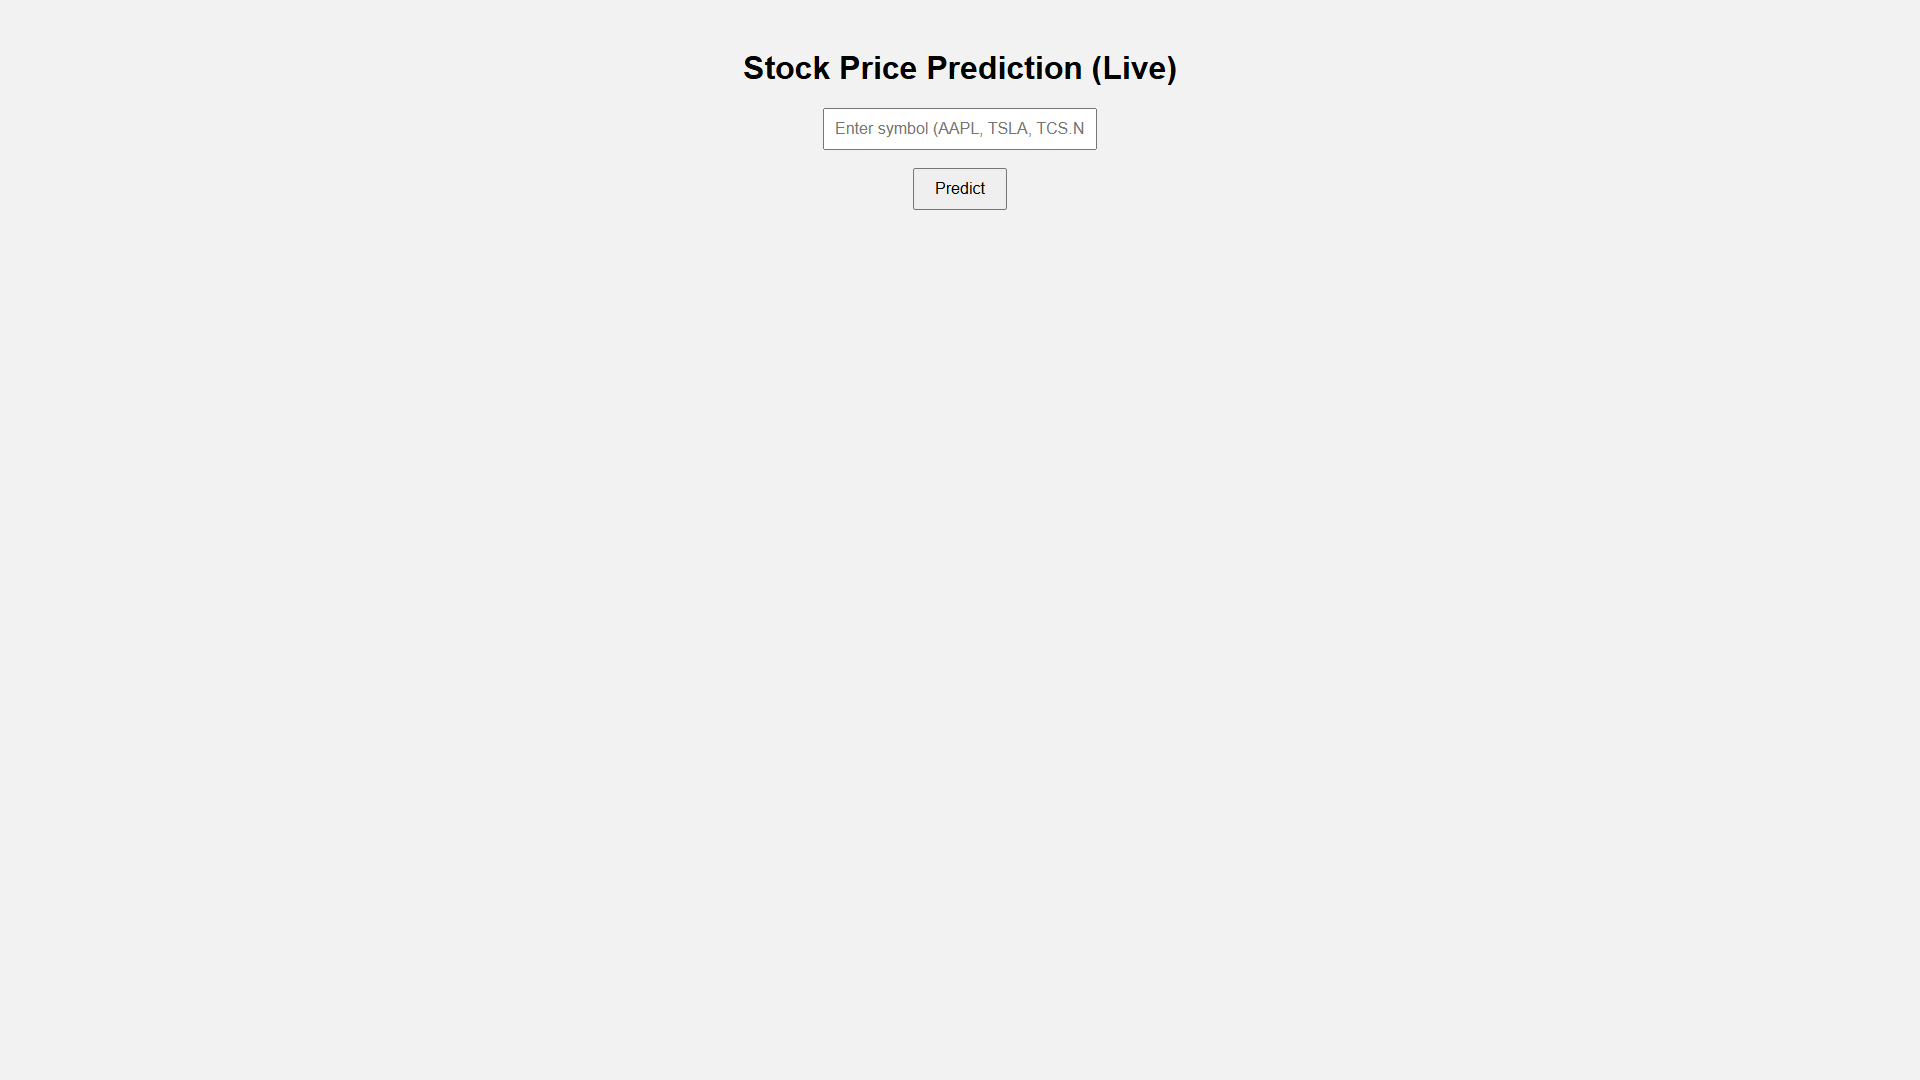
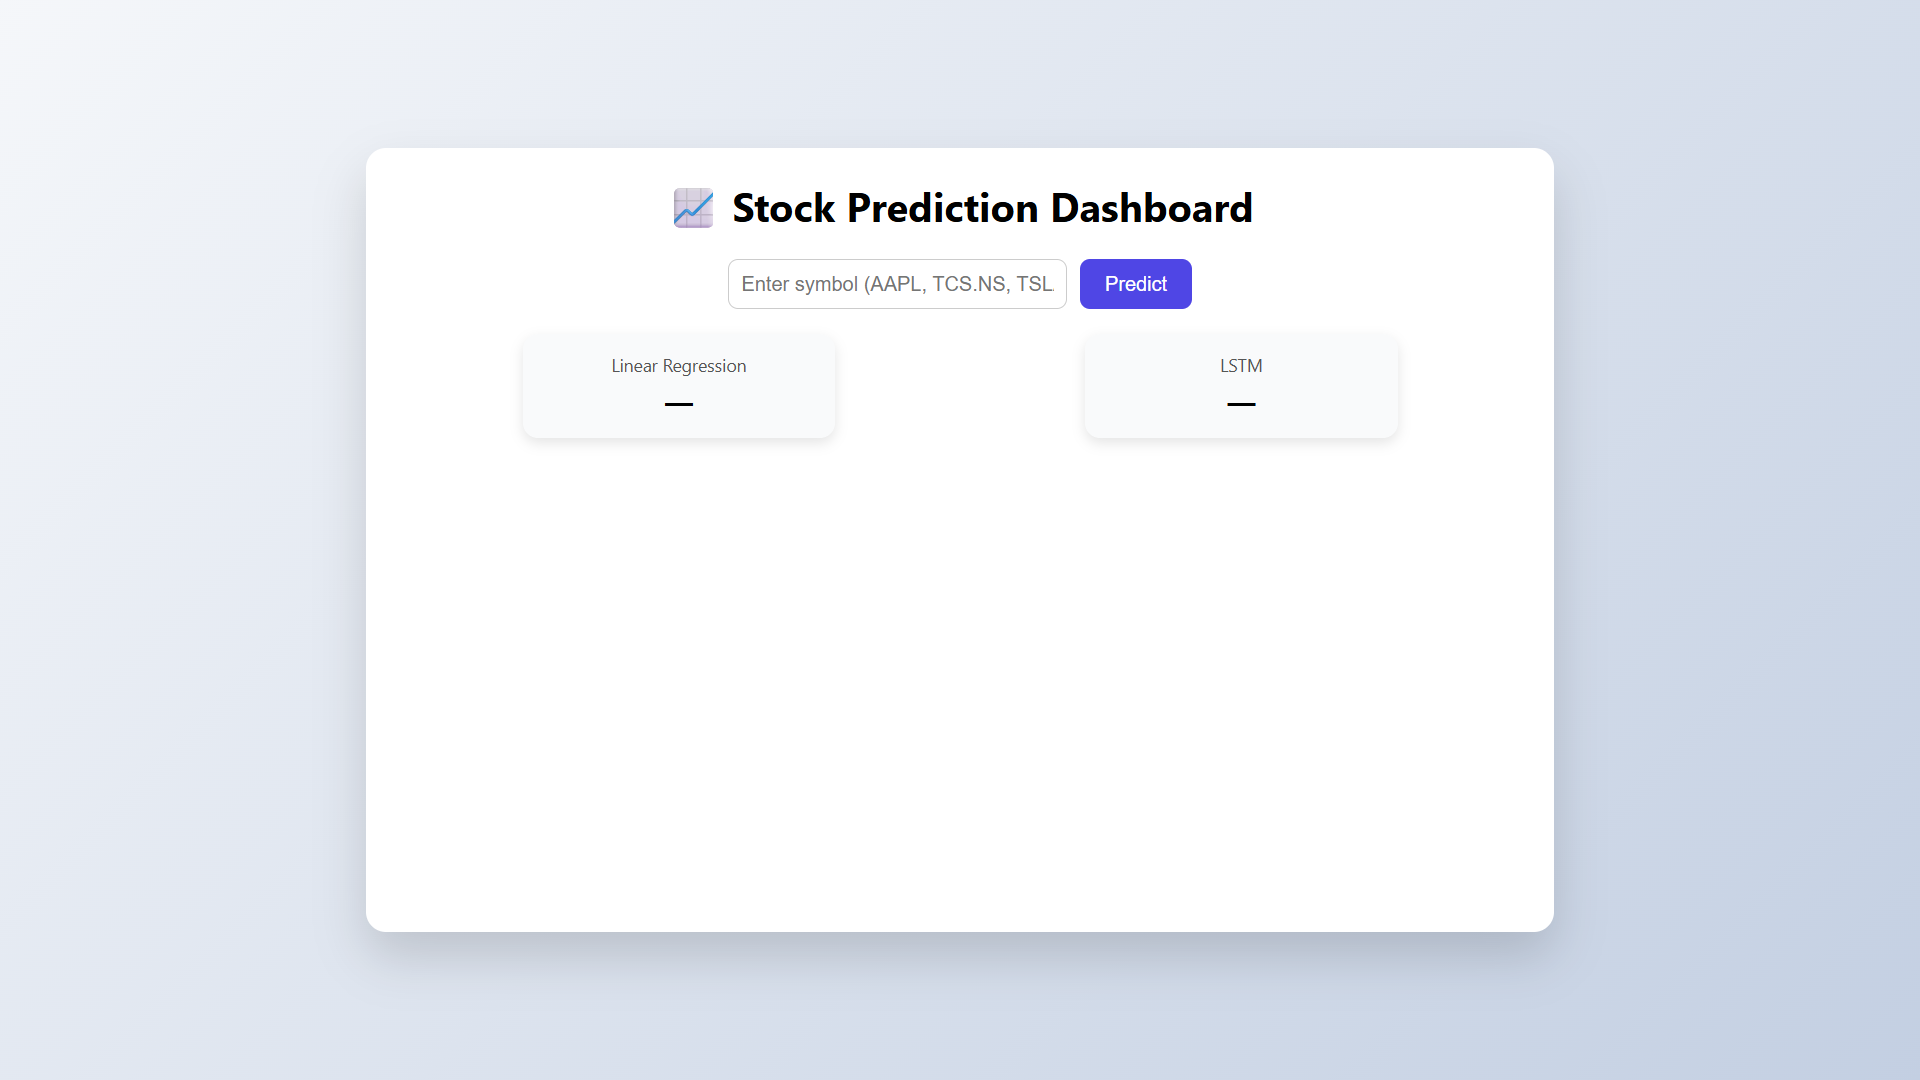
Enhance README with system architecture and model evaluation details; update screenshots

Changed region(s): [[0.1562, 0.0, 1.0, 1.0], [0.3438, 0.0306, 0.6562, 0.3056], [0.3125, 0.3361, 0.375, 0.3667]]

diff --git a/README.md b/README.md
@@ -15,7 +15,7 @@ A robust machine learning application designed to forecast next-day stock closin
 - **Real-Time Data Ingestion**: Seamless integration with Yahoo Finance (`yfinance`) for up-to-the-minute market data.
 - **Dual-Model Inference**: Simultaneous execution of statistical (Linear Regression) and deep learning (LSTM) models for comparative analysis.
 - **Global Market Support**: Full compatibility with international tickers (e.g., NSE, BSE, LSE, NASDAQ).
-- **Interactive Web Interface**: A minimal, responsive frontend for instant query and visualization.
+- **Interactive Web Interface**: A minimal, responsive frontend with line-chart visualization of historical prices and predicted next-day close.
 - **Automated Preprocessing**: On-the-fly data cleaning, normalization, and sequence generation.
 
 ---
@@ -42,6 +42,25 @@ stock-prediction/
 ```
 
 ---
+
+## 🏗 System Architecture
+```text
+User
+ ↓
+Web UI (HTML / CSS / JavaScript)
+ ↓
+Flask Backend (REST API)
+ ↓
+Yahoo Finance (Live Market Data)
+ ↓
+ML Models (Linear Regression + LSTM)
+ ↓
+Prediction + Visualization (Chart.js)
+
+```
+---
+
+
 
 ## 🛠 Installation & Setup
 
@@ -71,7 +90,7 @@ pip install -r requirements.txt
 
 ## 🧠 Model Training
 
-Before running the application, train the models to generate the necessary `.h5` and `.pkl` files.
+Before running the application, train the models to generate the necessary `.keras` and `.pkl` model files.
 
 ```bash
 # Train Linear Regression Model
@@ -150,6 +169,34 @@ This application supports global markets via Yahoo Finance tickers. Use the corr
 - **Type**: Recurrent Neural Network (RNN).
 - **Use Case**: Captures complex, non-linear temporal dependencies in time-series data.
 - **Pros**: Handles sequential data effectively, learns long-term patterns.
+
+---
+
+## 📈 Model Evaluation
+
+Both models are evaluated using standard regression error metrics on a held-out test set:
+
+- **MAE (Mean Absolute Error)** — Average absolute prediction error
+- **RMSE (Root Mean Square Error)** — Penalizes larger errors more strongly
+
+Run evaluation:
+```bash
+python backend/evaluate_models.py
+```
+### Sample Output
+
+```text
+Linear Regression:
+MAE  : 2.4
+RMSE : 3.47
+
+LSTM:
+MAE  : 6.04
+RMSE : 7.88
+```
+
+> Note: Values vary depending on the dataset, training window, and market conditions.
+
 
 ---
 
